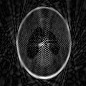
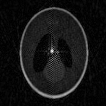
Reduce angle error in each iteration

diff --git a/scripts/MAP2D_simple.m b/scripts/MAP2D_simple.m
@@ -15,9 +15,9 @@ filename = ...
 num_theta = 180;
 max_angle_err = 1;
 max_shift_err = 1;
-resolution_angle = 1;
+resolution_angle = 0.5;
 resolution_space = 1;
-no_of_iterations = 3;
+no_of_iterations = 5;
 mask=ones(size(P));
 n = size(P, 1);
 L_pad = 260; 
@@ -44,10 +44,6 @@ for i=1:size(projections, 2)
 end
 theta_to_write(1, :) = theta;
 theta_to_write(7, :) = original_shifts;
-
-% Initialize parameters needed for searching in the space.
-prior_parameters = PriorParameters(max_angle_err, max_shift_err,...
-    resolution_angle, resolution_space);
 
 % Add noise to projections.
 [projections, sigmaNoise] = add_noise(projections, sigmaNoiseFraction);
@@ -96,9 +92,10 @@ for i=1:size(prob_matrix, 1)
                 current_shift);
     end
 end
-max_angle_err = 1;
+max_angle_err = 2;
 max_shift_err = 1;
 
+% Make the first estimate in the fourier and the spatial domain.
 f_image_estimate = fourier_radial(:);
 first_estimate_model = Ifft2_2_Img(fourier_radial, L_pad);
 
@@ -147,6 +144,13 @@ weights = ones(size(f_image_estimate));
 
 error_plot(1) = norm(first_estimate_model - P);
 for q=1:no_of_iterations
+    % The maximum error in angles for this iteration.
+    max_angle_err = max_angle_err - 0.5;
+    
+    % Initialize parameters needed for searching in the space.
+    prior_parameters = PriorParameters(max_angle_err, max_shift_err,...
+        resolution_angle, resolution_space);
+    
     % Calculate probability for each orientation for each projection.
     [prob_matrix, dist_matrix] = calc_prob_for_each_orientation(f_image_estimate,...
         f_projections, theta_estimate, first_estimate_theta,...
